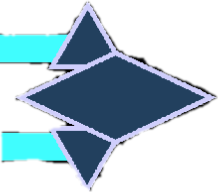
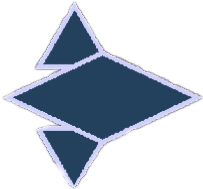
particle system added to back of ship

Changed region(s): [[0.0, 0.0, 1.0, 1.0]]

diff --git a/common/kivyparticle/engine.py b/common/kivyparticle/engine.py
@@ -264,7 +264,7 @@ class ParticleSystem(Widget):
         start_color = random_color_variance(self.start_color, self.start_color_variance)
         end_color = random_color_variance(self.end_color, self.end_color_variance)
 
-        particle.color_delta = [(end_color[i] - start_color[i]) / life_span for i in range(4)]
+        particle.color_delta = [(end_color[i] - start_color[i]) / life_span for i in xrange(4)]
         particle.color = start_color
 
         # rotation
@@ -314,13 +314,13 @@ class ParticleSystem(Widget):
         particle.scale += particle.scale_delta * passed_time
         particle.rotation += particle.rotation_delta * passed_time
 
-        particle.color = [particle.color[i] + particle.color_delta[i] * passed_time for i in range(4)]
+        particle.color = [particle.color[i] + particle.color_delta[i] * passed_time for i in xrange(4)]
 
     def _raise_capacity(self, by_amount):
         old_capacity = self.capacity
         new_capacity = min(self.max_capacity, self.capacity + by_amount)
 
-        for i in range(int(new_capacity - old_capacity)):
+        for i in xrange(int(new_capacity - old_capacity)):
             self.particles.append(self._create_particle())
 
         self.num_particles = int(new_capacity)
@@ -328,9 +328,9 @@ class ParticleSystem(Widget):
 
     def _lower_capacity(self, by_amount):
         old_capacity = self.capacity
-        new_capacity = max(0, self.capacity - by_amount)
+        new_capacity = int(max(0, self.capacity - by_amount))
 
-        for i in range(int(old_capacity - new_capacity)):
+        for i in xrange(int(old_capacity - new_capacity)):
             try:
                 self.canvas.remove(self.particles_dict[self.particles.pop()]['rect'])
             except:
@@ -339,17 +339,26 @@ class ParticleSystem(Widget):
         self.num_particles = int(new_capacity)
         self.capacity = new_capacity
 
+    def _remove_particle(self, particle):
+        try:
+            self.canvas.remove(self.particles_dict[particle]['rect'])
+        except:
+            pass
+
     def _advance_time(self, passed_time):
         particle_index = 0
 
         # advance existing particles
         while particle_index < self.num_particles:
-            particle = self.particles[particle_index]
+            try:
+                particle = self.particles[particle_index]
+            except:
+                break
             if particle.current_time < particle.total_time:
                 self._advance_particle(particle, passed_time)
                 particle_index += 1
             else:
-                if particle_index != self.num_particles - 1:
+                if particle_index != self.num_particles - 1 and self.num_particles-1 < len(self.particles):
                     next_particle = self.particles[self.num_particles - 1]
                     self.particles[self.num_particles - 1] = particle
                     self.particles[particle_index] = next_particle
@@ -363,7 +372,7 @@ class ParticleSystem(Widget):
             self.frame_time += passed_time
 
             while self.frame_time > 0:
-                if self.num_particles < self.max_capacity:
+                if self.num_particles < self.max_capacity and self.num_particles < len(self.particles):
                     if self.num_particles == self.capacity:
                         self._raise_capacity(self.capacity)
 
@@ -380,7 +389,7 @@ class ParticleSystem(Widget):
     def _render(self):
         if self.num_particles == 0:
             return
-        for i in range(self.num_particles):
+        for i in xrange(len(self.particles)):
             particle = self.particles[i]
             size = (self.texture.size[0] * particle.scale, self.texture.size[1] * particle.scale)
             if particle not in self.particles_dict:

diff --git a/game/display.py b/game/display.py
@@ -6,6 +6,7 @@ from common.clock import *
 
 SPACESHIP_X = 100
 SPACESHIP_WIDTH = 140
+SPACESHIP_HEIGHT = 80
 SPACESHIP_SRC = 'ship_blank.png'
 NOW_X = 300
 WINDOW_SIZE = (1280, 720)
@@ -19,7 +20,7 @@ class Spaceship(InstructionGroup):
     The spaceship that the user controls.
     """
 
-    def __init__(self, x, y):
+    def __init__(self, x, y, ps_top, ps_bottom):
         super(Spaceship, self).__init__()
         self.x = x
         self.y = y
@@ -27,12 +28,18 @@ class Spaceship(InstructionGroup):
         self.min_y = 161
 
         self.add(Color(rgb=[1.0, 1.0, 1.0]))  # get rid of blue tint on spaceship
-        self.rect = Rectangle(pos=(self.x-80, self.y-40), size=(SPACESHIP_WIDTH, 80), source=SPACESHIP_SRC)
+        self.rect = Rectangle(pos=(self.x-SPACESHIP_WIDTH/2, self.y-SPACESHIP_HEIGHT/2), size=(SPACESHIP_WIDTH, SPACESHIP_HEIGHT), source=SPACESHIP_SRC)
         self.add(self.rect)
         
         self.add(Color(rgb=[1.0, 1.0, 1.0]))
         self.cursor_rect = Rectangle(pos=[NOW_X - 20 - 5, self.y - 50], size=[10, 100])
         self.add(self.cursor_rect)
+
+        # particle system stuffs
+        self.ps_top = ps_top
+        self.ps_bottom = ps_bottom
+        self.set_ps_pos()
+        self.update_ps_from_health(50)
 
     def move_vertical(self, pos=None, step=0):
         """
@@ -48,12 +55,29 @@ class Spaceship(InstructionGroup):
         elif self.y < self.min_y:
             self.y = self.min_y
 
-        self.rect.pos = (self.x-80, self.y-40)
+        self.rect.pos = (self.x-SPACESHIP_WIDTH/2, self.y-SPACESHIP_HEIGHT/2)
         self.cursor_rect.pos = (NOW_X - 20 - 5, self.y-50)
+
+        self.set_ps_pos()
+        
 
     # pos from 0.0 to 1.0
     def get_pos(self):
         return (self.y - 120) / 480.0
+
+    def set_ps_pos(self):
+        self.ps_top.emitter_x = self.x-20
+        self.ps_top.emitter_y = self.y+SPACESHIP_HEIGHT/4
+        self.ps_bottom.emitter_x = self.x-20
+        self.ps_bottom.emitter_y = self.y-SPACESHIP_HEIGHT/4
+
+    def update_ps_from_health(self, health):
+        """
+        Updates the appearance of the particle system based on health
+        """
+        percent = min(health/100., 1)
+        self.ps_top.max_num_particles = self.ps_bottom.max_num_particles = percent*130+20
+
         
     def on_update(self, dt):
         pass
@@ -502,7 +526,7 @@ class Trail(InstructionGroup):
 
 class GameDisplay(InstructionGroup):
 
-    def __init__(self, song_data):
+    def __init__(self, song_data, ps_top, ps_bottom):
         super(GameDisplay, self).__init__()
 
         self.tempo_map = TempoMap(data=song_data['tempo'])
@@ -551,7 +575,7 @@ class GameDisplay(InstructionGroup):
         self.add(PopMatrix())    
         
         # ship
-        self.ship = Spaceship(SPACESHIP_X, 360)
+        self.ship = Spaceship(SPACESHIP_X, 360, ps_top, ps_bottom)
         self.add(self.ship)
             
     def hit_target(self, target):

diff --git a/game/hypersonic.py b/game/hypersonic.py
@@ -7,6 +7,7 @@ from common.wavegen import *
 from common.wavesrc import *
 from common.clock import *
 from common.gfxutil import *
+from common.kivyparticle import *
 from kivy.core.window import Window
 from ConfigParser import ConfigParser
 
@@ -14,7 +15,6 @@ import parse
 import display
 from audioctrl import AudioController
 from player import *
-
 
 from kivy.clock import Clock as kivyClock
 
@@ -40,12 +40,19 @@ class MainWidget(BaseWidget) :
         self.add_widget(self.streak_label)
         self.add_widget(self.multiplier_label)
 
+        # set up particle system for thrusters
+        self.ps_top = ParticleSystem('../particle/particle.pex')
+        self.ps_bottom = ParticleSystem('../particle/particle.pex')
+        self.ps_on = False
+        self.add_widget(self.ps_top)
+        self.add_widget(self.ps_bottom)
+
         song_path = '../assets/' + PROTOTYPE_SONG + '.wav'
         self.audio_ctrl = AudioController(song_path, midi_lists['tempo'])
 
         self.tempo_map = TempoMap(data=midi_lists['tempo'])
         self.display_objects = AnimGroup()
-        self.game_display = display.GameDisplay(midi_lists)
+        self.game_display = display.GameDisplay(midi_lists, self.ps_top, self.ps_bottom)
         self.display_objects.add(self.game_display)
         self.canvas.add(self.display_objects)
 
@@ -64,6 +71,7 @@ class MainWidget(BaseWidget) :
         if keycode[1] == 'spacebar':
             self.audio_ctrl.toggle()
             self.paused = not self.paused
+            self.toggle_ps()
 
         if not self.paused:
             if keycode[1] in 'qwertyuiop':
@@ -88,7 +96,8 @@ class MainWidget(BaseWidget) :
 
     def on_touch_down(self, touch):
         # TODO figure out how to update mouse config so doesn't make the circles on right clicks
-        print touch.button
+        # print touch.button
+        pass
 
     def on_touch_up(self, touch):
         pass
@@ -103,6 +112,7 @@ class MainWidget(BaseWidget) :
         if button == 'start':
             self.audio_ctrl.toggle()
             self.paused = not self.paused
+            self.toggle_ps()
 
         if not self.paused:
             if button == 'Y':
@@ -145,6 +155,15 @@ class MainWidget(BaseWidget) :
         if axis_id == 1:
             # negative value positive percent is down
             self.left_joystick_y = -value
+
+    def toggle_ps(self):
+        self.ps_on = not self.ps_on
+        if self.ps_on:
+            self.ps_top.start()
+            self.ps_bottom.start()
+        else:
+            self.ps_top.stop()
+            self.ps_bottom.stop()
         
     def on_update(self):
         self.score_label.text = str(self.player.score)

diff --git a/game/player.py b/game/player.py
@@ -19,12 +19,14 @@ class Player(object):
         if self.health > 100:
             self.health = 100
         self.display.health.update_health(self.health)
+        self.display.ship.update_ps_from_health(self.health)
 
     def lose_health(self, amt=1):
         self.health -= amt
         if self.health < 0:
             self.health = 0
         self.display.health.update_health(self.health)
+        self.display.ship.update_ps_from_health(self.health)
 
     def get_health(self):
         return self.health
@@ -71,9 +73,6 @@ class Player(object):
                 hit = True
                 break
 
-        # show that a laser was fired
-        self.display.fire_beam(lane, hit)
-
         if hit:
             self.gain_health()
             self.streak += 1
@@ -86,6 +85,9 @@ class Player(object):
             self.lose_health(amt=1)
             self.streak = 0
             self.streak_multiplier = 1
+
+        # show that a laser was fired
+        self.display.fire_beam(lane, hit)
         
     def release(self, lane, keycode):
         if self.display.current_holds[lane] == keycode:
